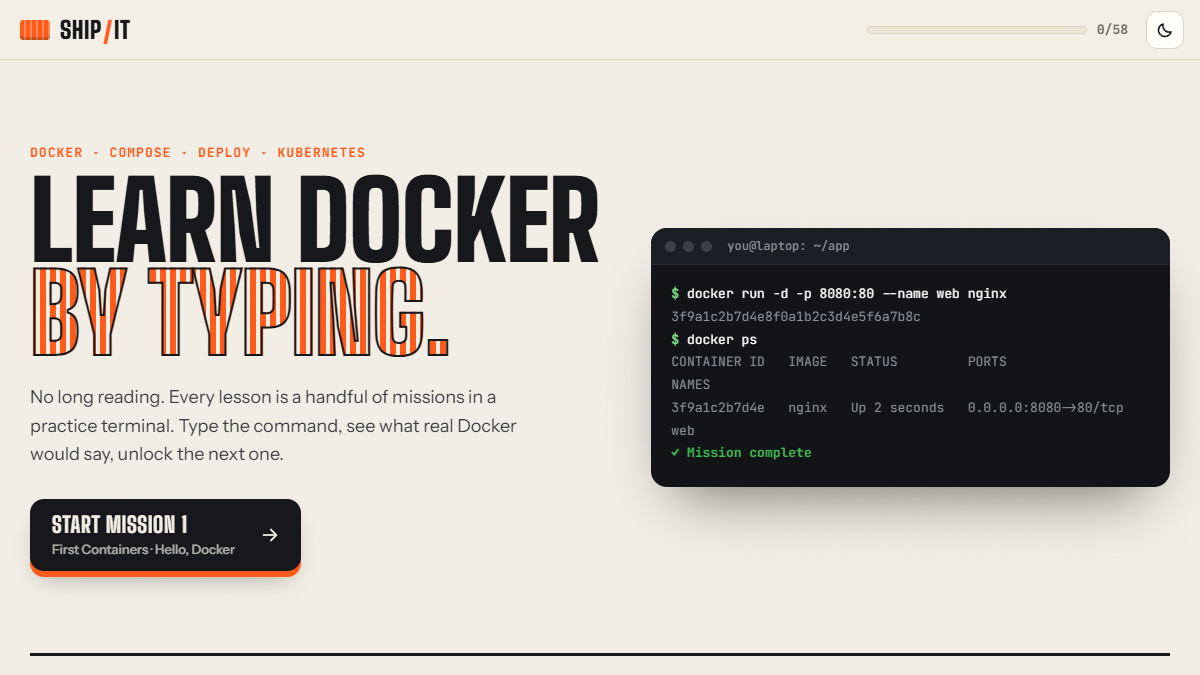
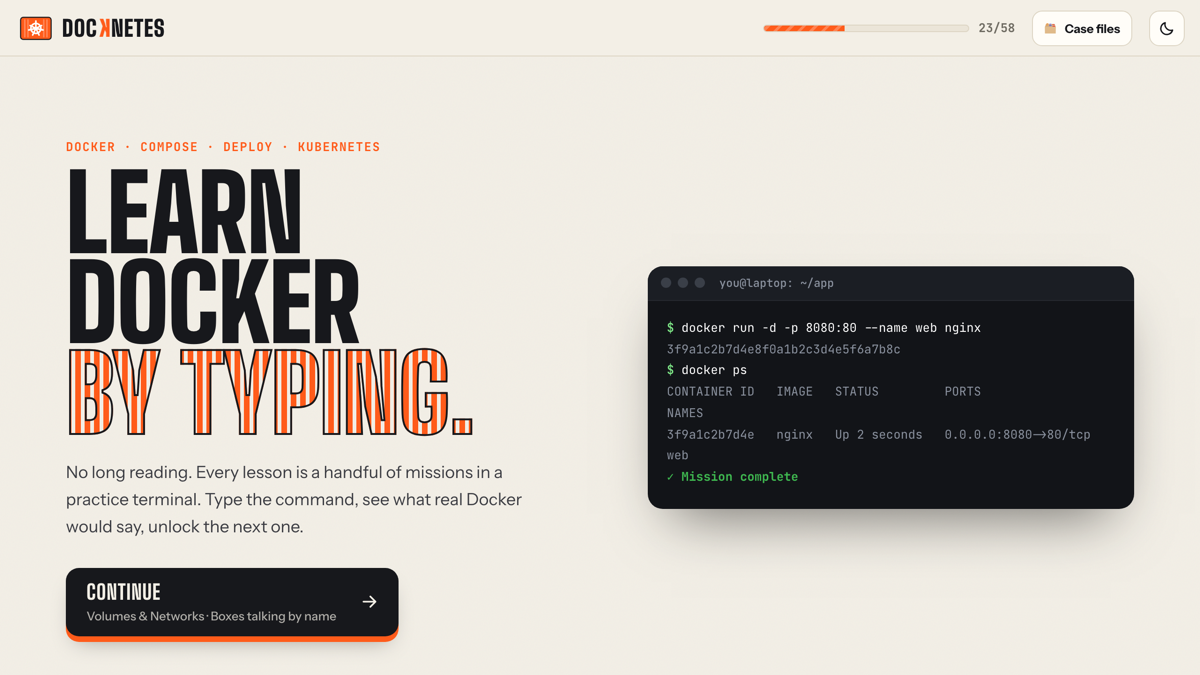
Update

diff --git a/README.md b/README.md
@@ -15,10 +15,10 @@ Docker → Compose → deploying to a server → Kubernetes, as **58 missions** 
 - **Strict order.** Modules, lessons and missions unlock one by one.
 - **Guided first run.** The first time through a lesson, the command to type is shown. When you replay a finished lesson it's hidden behind **Hint** and **Show answer**, so you practise from memory.
 - **Revisit anything.** Every finished lesson stays open. **Replay missions** runs it again in a fresh sandbox without touching your progress.
-- **"Kitchen in a box" intro.** An 8-scene animated story that explains containers, ports, images, volumes, Compose, registries and Kubernetes before mission 1.
+- **"Kitchen in a box" intro.** A 10-scene animated story before mission 1. It opens with a real problem (two projects needing different PHP versions on one laptop), then explains containers, ports, images, volumes, Compose, registries and Kubernetes.
 - Light (default) and dark themes, works on phones, clean URL, progress saved in the browser (`localStorage`).
 
-![Kitchen in a box intro](docs/intro.png)
+![Intro story: two projects, one PHP version](docs/intro.png)
 
 ## The course
 
